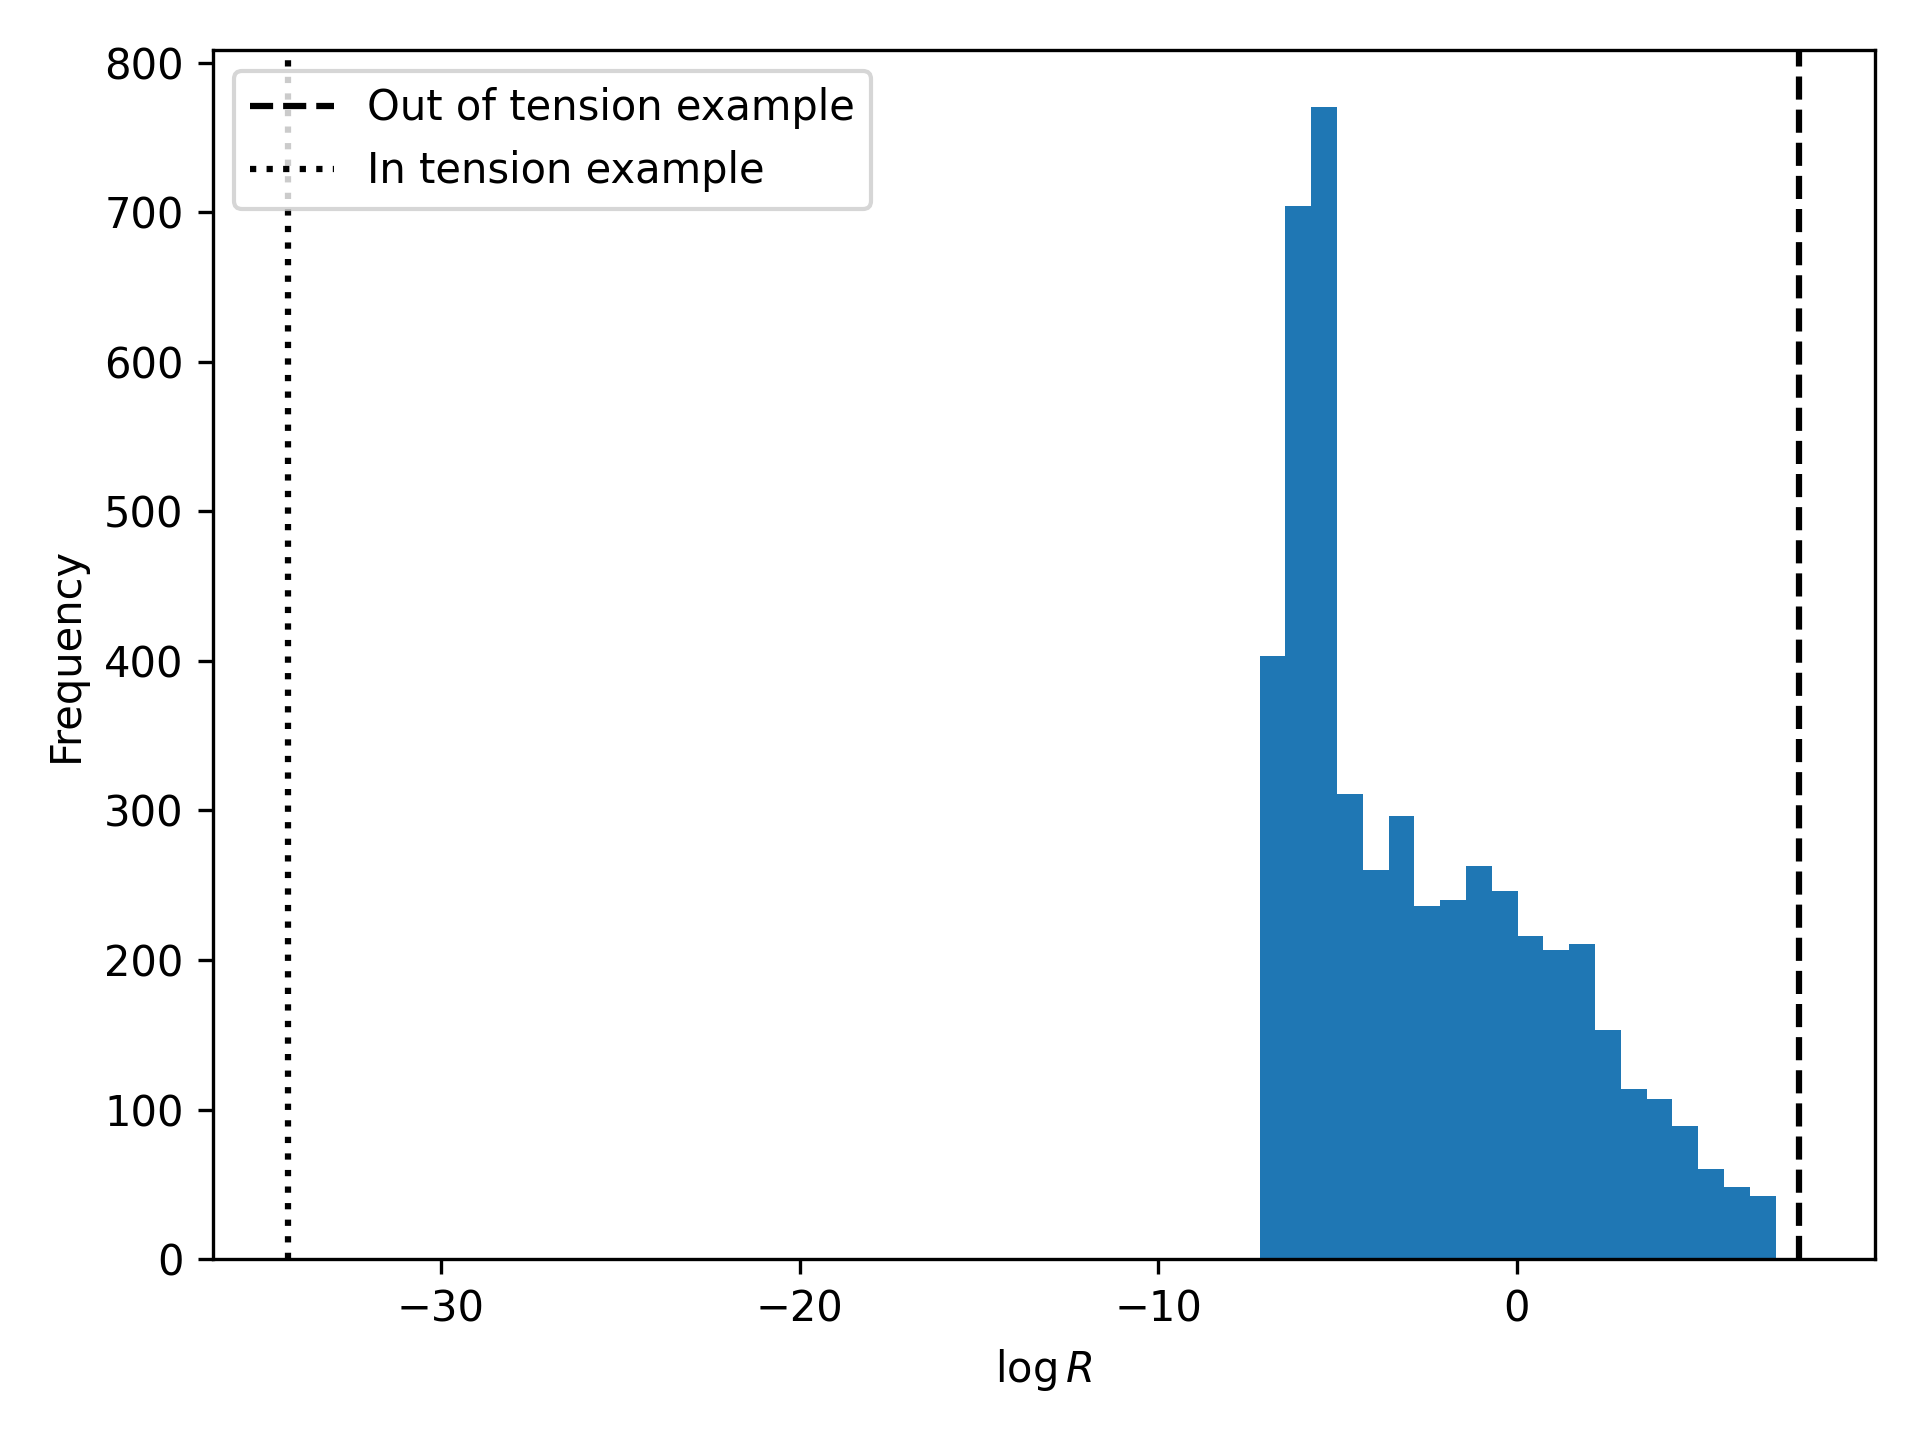
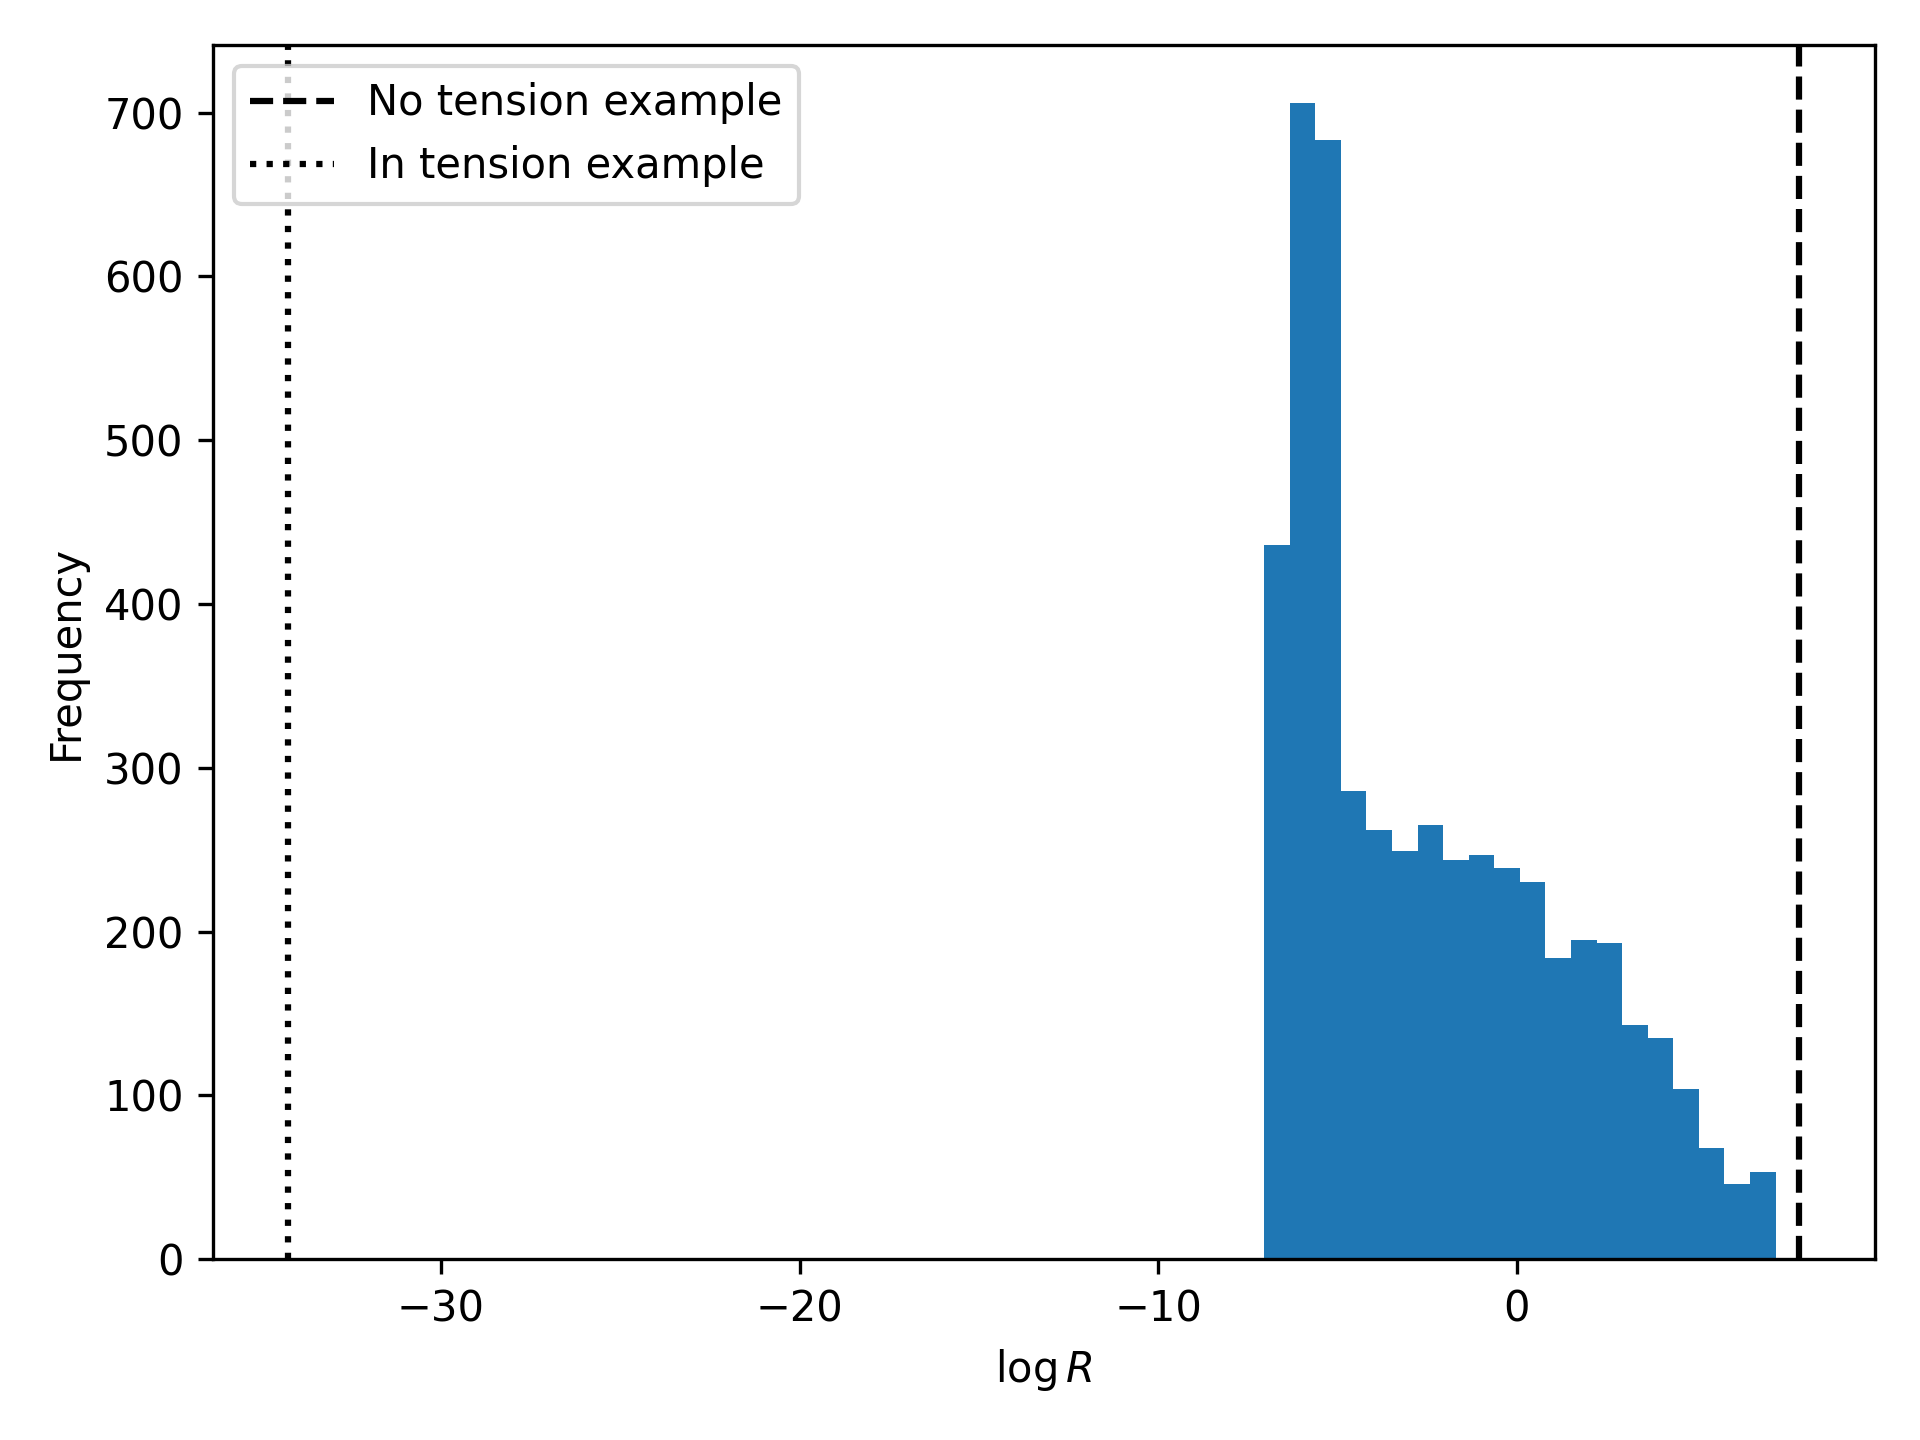
updating legend on hist plot

diff --git a/simple_data_call.py b/simple_data_call.py
@@ -68,7 +68,7 @@ nrei.__call__(iters=5000)
 r = nrei.r_values
 mask = np.isfinite(r)
 plt.hist(np.log10(r[mask]), bins=20)
-plt.axvline(7.89, color='k', ls='--', label='Out of tension example')
+plt.axvline(7.89, color='k', ls='--', label='No tension example')
 plt.axvline(-34.26, color='k', ls=':', label='In tension example')
 plt.xlabel(r'$\log R$')
 plt.ylabel('Frequency')
